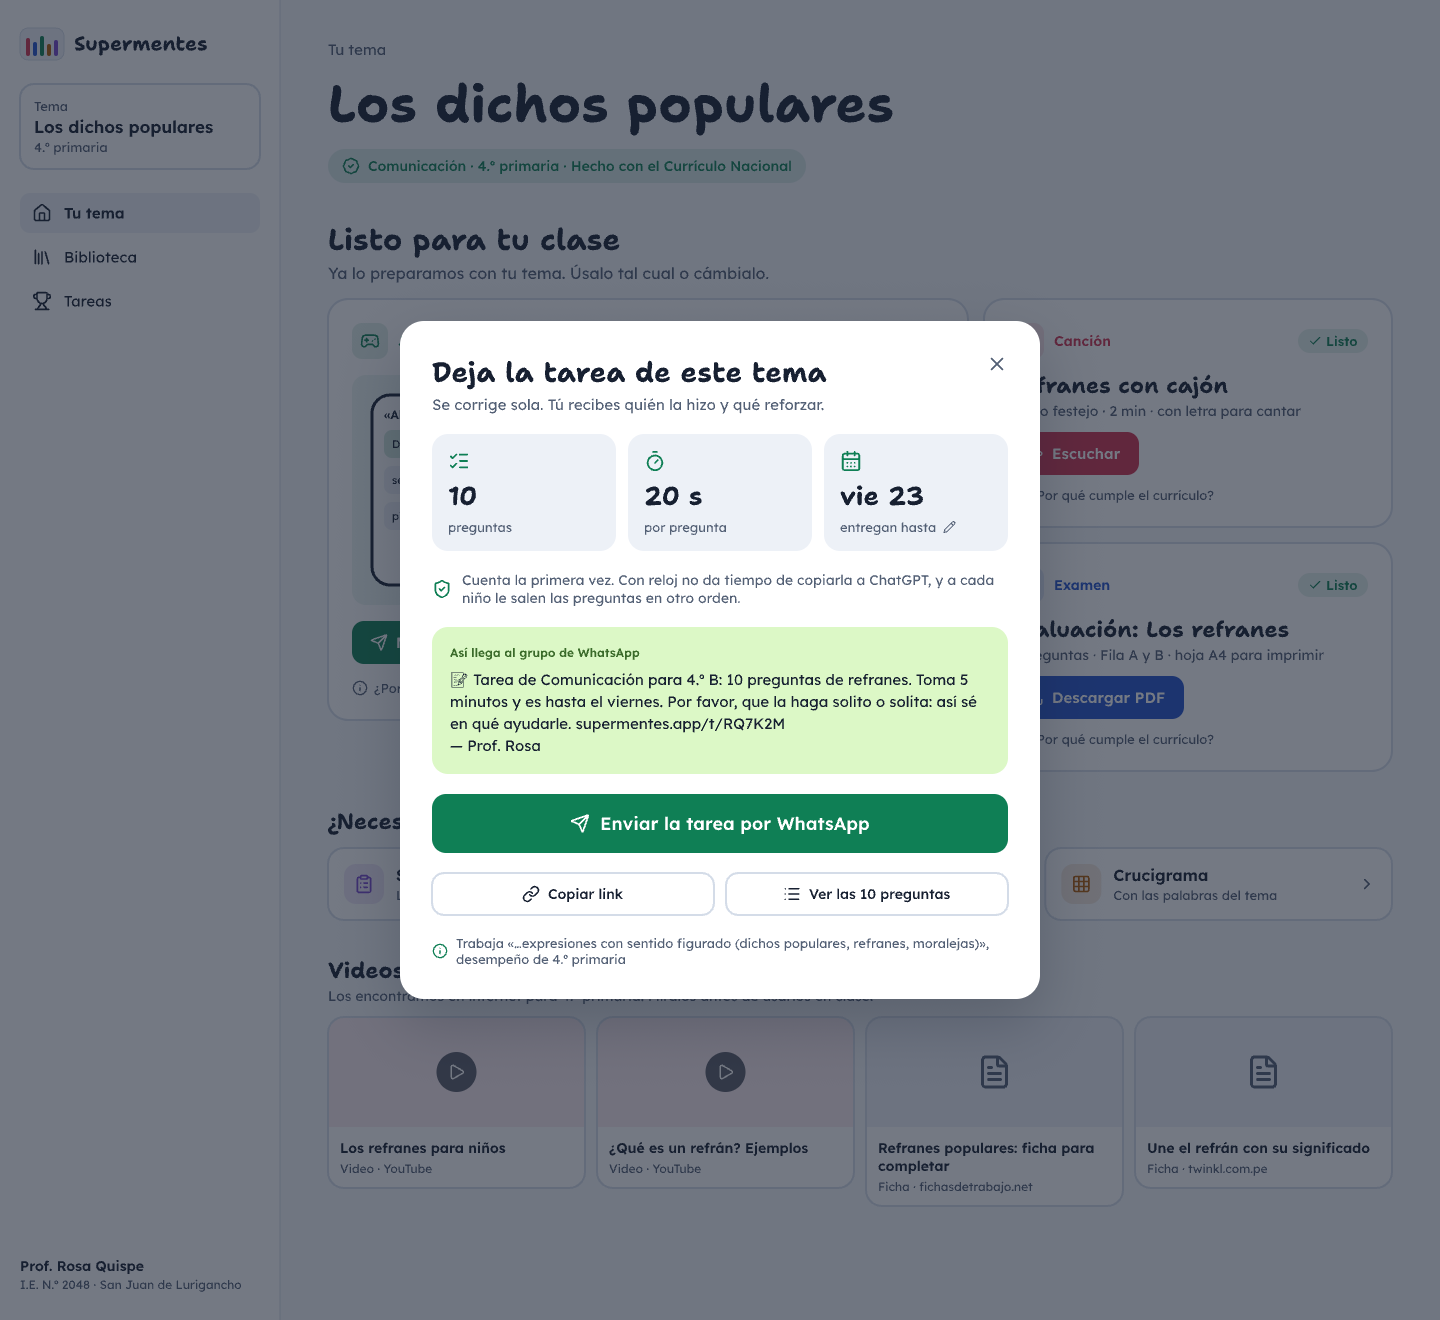
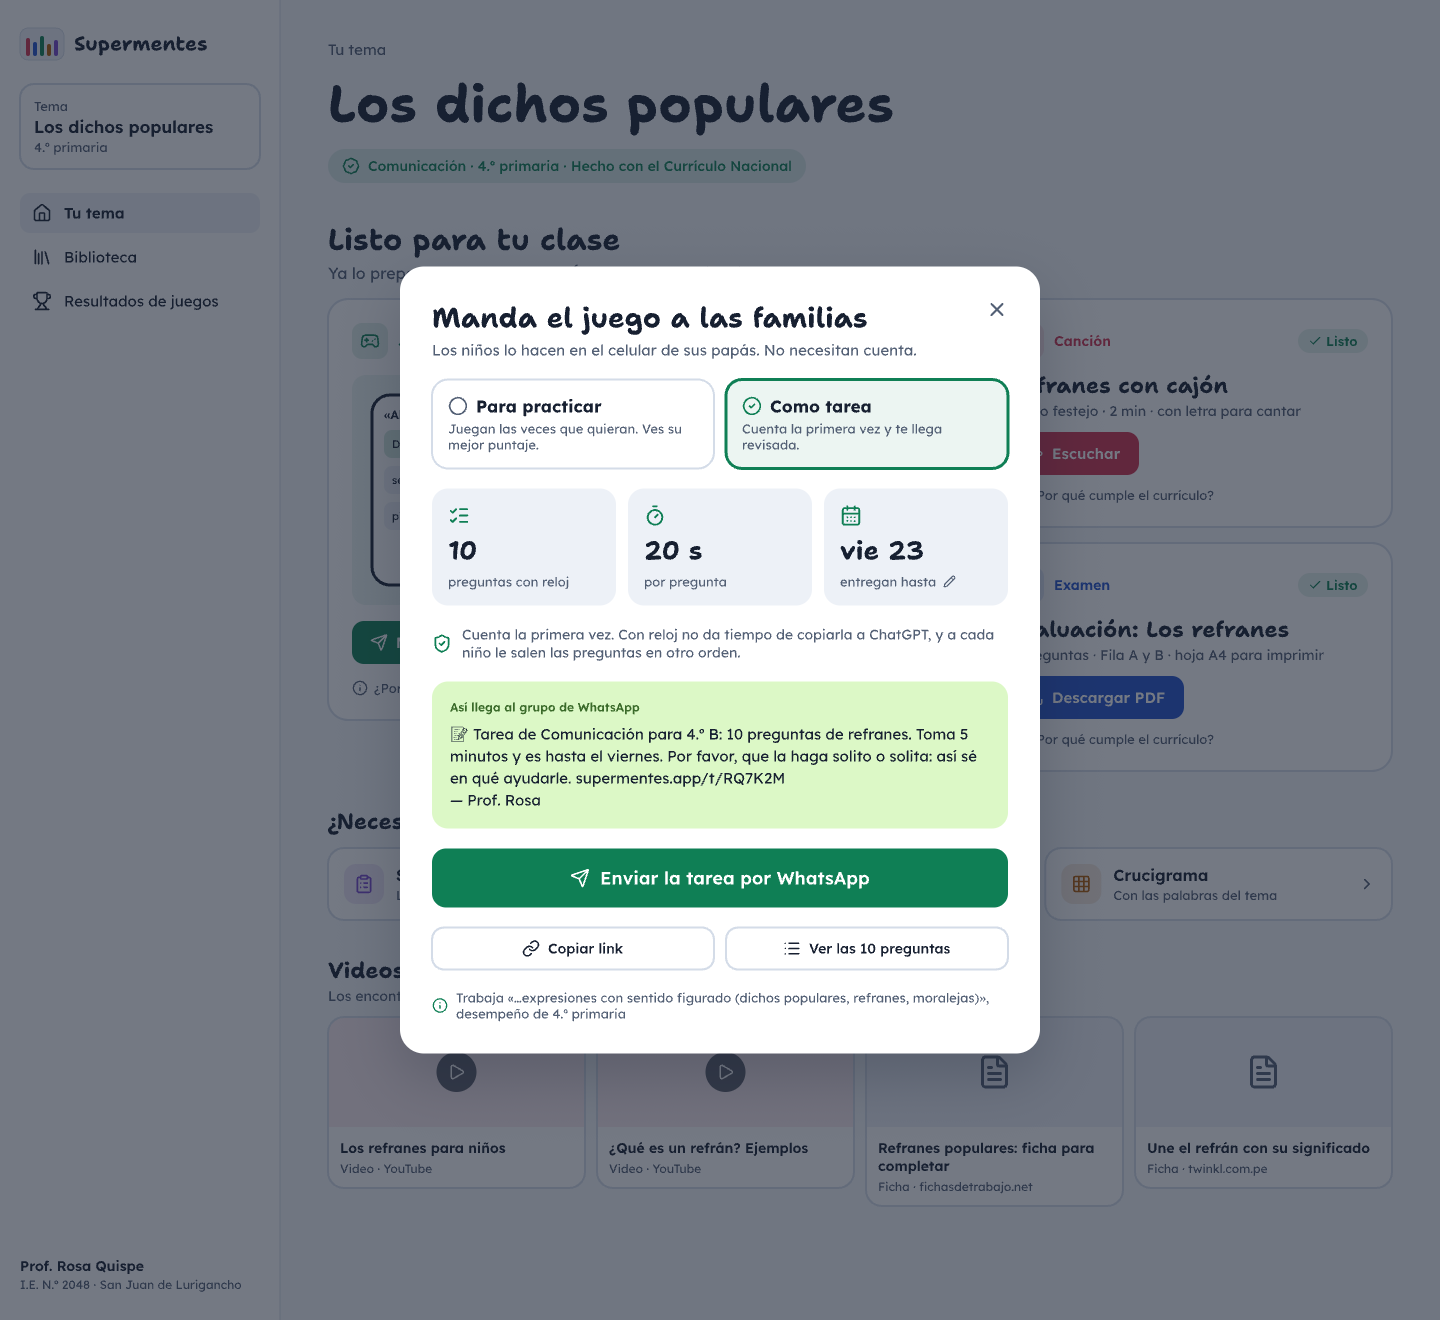
Tareas: dentro de Juego web y Resultados de juegos, y qué datos del alumno se guardan
La tarea pasa a ser una opción al mandar el juego, no una herramienta nueva, y se revisa en
Resultados de juegos. Propuesta para la regla de VISION sobre datos del alumno.

Changed region(s): [[0.25, 0.1864, 0.75, 0.8076], [0.125, 0.2174, 0.1562, 0.2485], [0.0625, 0.2174, 0.0938, 0.2485]]

diff --git a/obsidian/TAREAS.md b/obsidian/TAREAS.md
@@ -7,7 +7,7 @@ estado: propuesta, falta que Harold apruebe el flujo y el prototipo
 
 > Sesión de producto, sin código. Sale de la entrevista con Lucho y Yessly ([[entrevistas/2026-10-18-lucho-y-yessly]],
 > [[MATERIALES]] §7). Reusa los juegos (`apps/web/src/juegos`) y los resultados (`api/resultados.ts`).
-> Prototipo: capturas en `demos/tareas/` (1 dejar tarea, 2 el alumno la abre, 3 pregunta con reloj, 4 entregada, 5 tarea revisada) y las pantallas de pen.dev en `demos/tareas/pantallas.json`, para pegarlas en `demos/demo-pitch.pen`.
+> Prototipo: capturas en `demos/tareas/` (1 mandar como tarea, 2 el alumno la abre, 3 pregunta con reloj, 4 entregada, 5 tarea revisada) y las pantallas de pen.dev en `demos/tareas/pantallas.json`, para pegarlas en `demos/demo-pitch.pen`.
 
 ## 1. El problema
 
@@ -23,6 +23,17 @@ estado: propuesta, falta que Harold apruebe el flujo y el prototipo
 
 **La apuesta:** una tarea corta en el celular, con reloj por pregunta. No da tiempo de copiarla a ChatGPT, se corrige
 sola y el docente recibe la lista revisada y qué reforzar.
+
+## Dónde vive en el producto
+
+No es una herramienta nueva ni está en [[VISION]] ni en [[MAPA]]. Es **una forma de mandar el juego que ya existe**,
+para no sumar pantallas ni palabras nuevas:
+
+- **Se manda desde Juego web (pantalla 09):** en la ventana "Manda el juego a las familias" hay dos opciones,
+  **"Para practicar"** (lo de hoy) y **"Como tarea"**. No hay un botón "Dejar tarea" aparte ni un menú "Tareas".
+- **Se revisa en Resultados de juegos (pantalla 12):** las tareas salen primero, con la etiqueta "Tarea" y "18 de 30
+  entregaron". Al abrir una, se ve ya revisada.
+- **El alumno ve lo mismo que hoy** (`/j/CODIGO`, su nombre una vez), con portada de tarea y sin poder volver atrás.
 
 ## 2. Para quién
 
@@ -49,7 +60,8 @@ proyectado con el mismo tema, para ver si el aula responde como en la casa.
 ## 4. Qué NO se hace
 
 - **No detectamos IA ni vigilamos al niño:** nada de cámara, micrófono ni "modo examen" que bloquee el celular.
-- **No hay cuenta para el alumno** ni datos de él: solo su nombre, escrito una vez (como hoy en los juegos).
+- **No hay cuenta para el alumno:** solo su nombre, escrito una vez (como hoy en los juegos). Ver "Los datos del
+  alumno".
 - **No hay tareas abiertas** (redacción, procedimiento, foto del cuaderno): no se corrigen solas. Solo preguntas con
   respuesta correcta (`Reto`) que tengan cita del desempeño del grado.
 - **No elige juego el docente en la tarea:** la tarea es siempre el Concurso (reloj, una respuesta por pregunta). Los
@@ -63,9 +75,9 @@ proyectado con el mismo tema, para ver si el aula responde como en la casa.
 
 ### Docente (laptop): dejar la tarea, 2 clics
 
-1. **En el tema** (por ejemplo, "Fracciones" de 4.º), arriba a la derecha: **"Dejar tarea"**. Está junto a lo que
-   cambia, como pide la regla de "nada de sube y baja".
-2. **Se abre una ventana ya armada**, sin preguntas que contestar:
+1. **En Juego web toca "Mandar a las familias"**, como hoy.
+2. **En la ventana elige "Como tarea"** (al lado de "Para practicar"). Aparece todo ya armado, sin preguntas que
+   contestar:
    - "10 preguntas · 20 segundos cada una · cuenta la primera vez".
    - **Entregan hasta:** pasado mañana (default; se cambia con un toque en la fecha).
    - El desempeño que trabaja, con la "i".
@@ -89,8 +101,8 @@ proyectado con el mismo tema, para ver si el aula responde como en la casa.
 
 ### Docente (laptop): revisar, 0 clics para lo importante
 
-1. **En el menú, "Tareas"** (reemplaza a "Resultados de juegos"; los juegos sueltos quedan dentro). Cada tarea dice
-   "18 de 30 entregaron" y la fecha.
+1. **En el menú, "Resultados de juegos"**, como hoy. Las tareas salen primero, con la etiqueta "Tarea", "18 de 30
+   entregaron" y la fecha.
 2. **Abre una tarea y ya está revisada:**
    - Arriba, **"Reforzar"**: las 2 preguntas que más fallaron, con su desempeño ("i"). Botón "Repasar en clase":
      abre el Concurso en el proyector con esas preguntas.
@@ -99,9 +111,27 @@ proyectado con el mismo tema, para ver si el aula responde como en la casa.
    - "Mostrar podio": los 5 mejores, para la pizarra (nunca muestra al último).
    - Un toque en un alumno: qué pregunta falló y qué respondió.
 
+## Los datos del alumno (la tensión con la visión)
+
+[[VISION]] dice: "No pide cuenta ni datos a los alumnos". Hoy Resultados de juegos ya guarda el nombre que escribe
+el niño y su puntaje, y la tarea suma **qué respondió en cada pregunta**. Propuesta para cumplir el espíritu de esa
+regla:
+
+- **Sin cuenta, sin correo, sin DNI, sin teléfono, sin foto.** Solo el nombre que el niño escribe (puede ser solo el
+  nombre de pila) y sus respuestas a esa tarea.
+- **Solo lo ve su docente**, dentro de su cuenta. Nunca otro docente, nunca la biblioteca, nunca la IA.
+- **Se borra solo** al cerrar el año escolar, y el docente puede borrar una tarea con sus entregas.
+- **Los papás saben qué se guarda:** la portada de la tarea lo dice en una línea ("Tu profe verá tu nombre y tus
+  respuestas").
+- Pendiente de revisar: la ley peruana de datos personales (Ley 29733) pide reglas especiales para datos de menores.
+  No está verificado si el nombre y las respuestas de la tarea necesitan el consentimiento de los papás.
+
+Cambio propuesto en [[VISION]] (decide Harold): "No pide cuenta a los alumnos. Solo su nombre, que ve únicamente su
+docente."
+
 ## 6. Qué cambia por debajo (para cuando se apruebe)
 
-- **Clerk** para el docente: las tareas viven en su cuenta, no en el navegador (hoy la clave de resultados se pierde
+- **Clerk** para el docente (después del evento: [[MVP]] deja fuera las cuentas hasta entonces): las tareas viven en su cuenta, no en el navegador (hoy la clave de resultados se pierde
   si borra el navegador o cambia de laptop).
 - **Neon (Postgres)** en lugar de Blob para tareas y entregas: sin el tope de 2.000 escrituras al mes, y cada
   entrega guarda cada respuesta. Tres tablas: `docentes` (id de Clerk), `tareas` (código, tema, grado, desempeños
@@ -116,3 +146,4 @@ proyectado con el mismo tema, para ver si el aula responde como en la casa.
    cortes una vez ("de 9 a 10 es AD").
 2. **¿Cuántas preguntas?** Propuesta: 10 (≈ 5 minutos). Un papá presta el celular poco rato.
 3. **¿Y el hermano mayor?** Propuesta: decirlo claro y sumar "Comprobar en clase" después.
+4. **¿Cambiamos la frase de [[VISION]]** sobre los datos del alumno, como se propone arriba?
